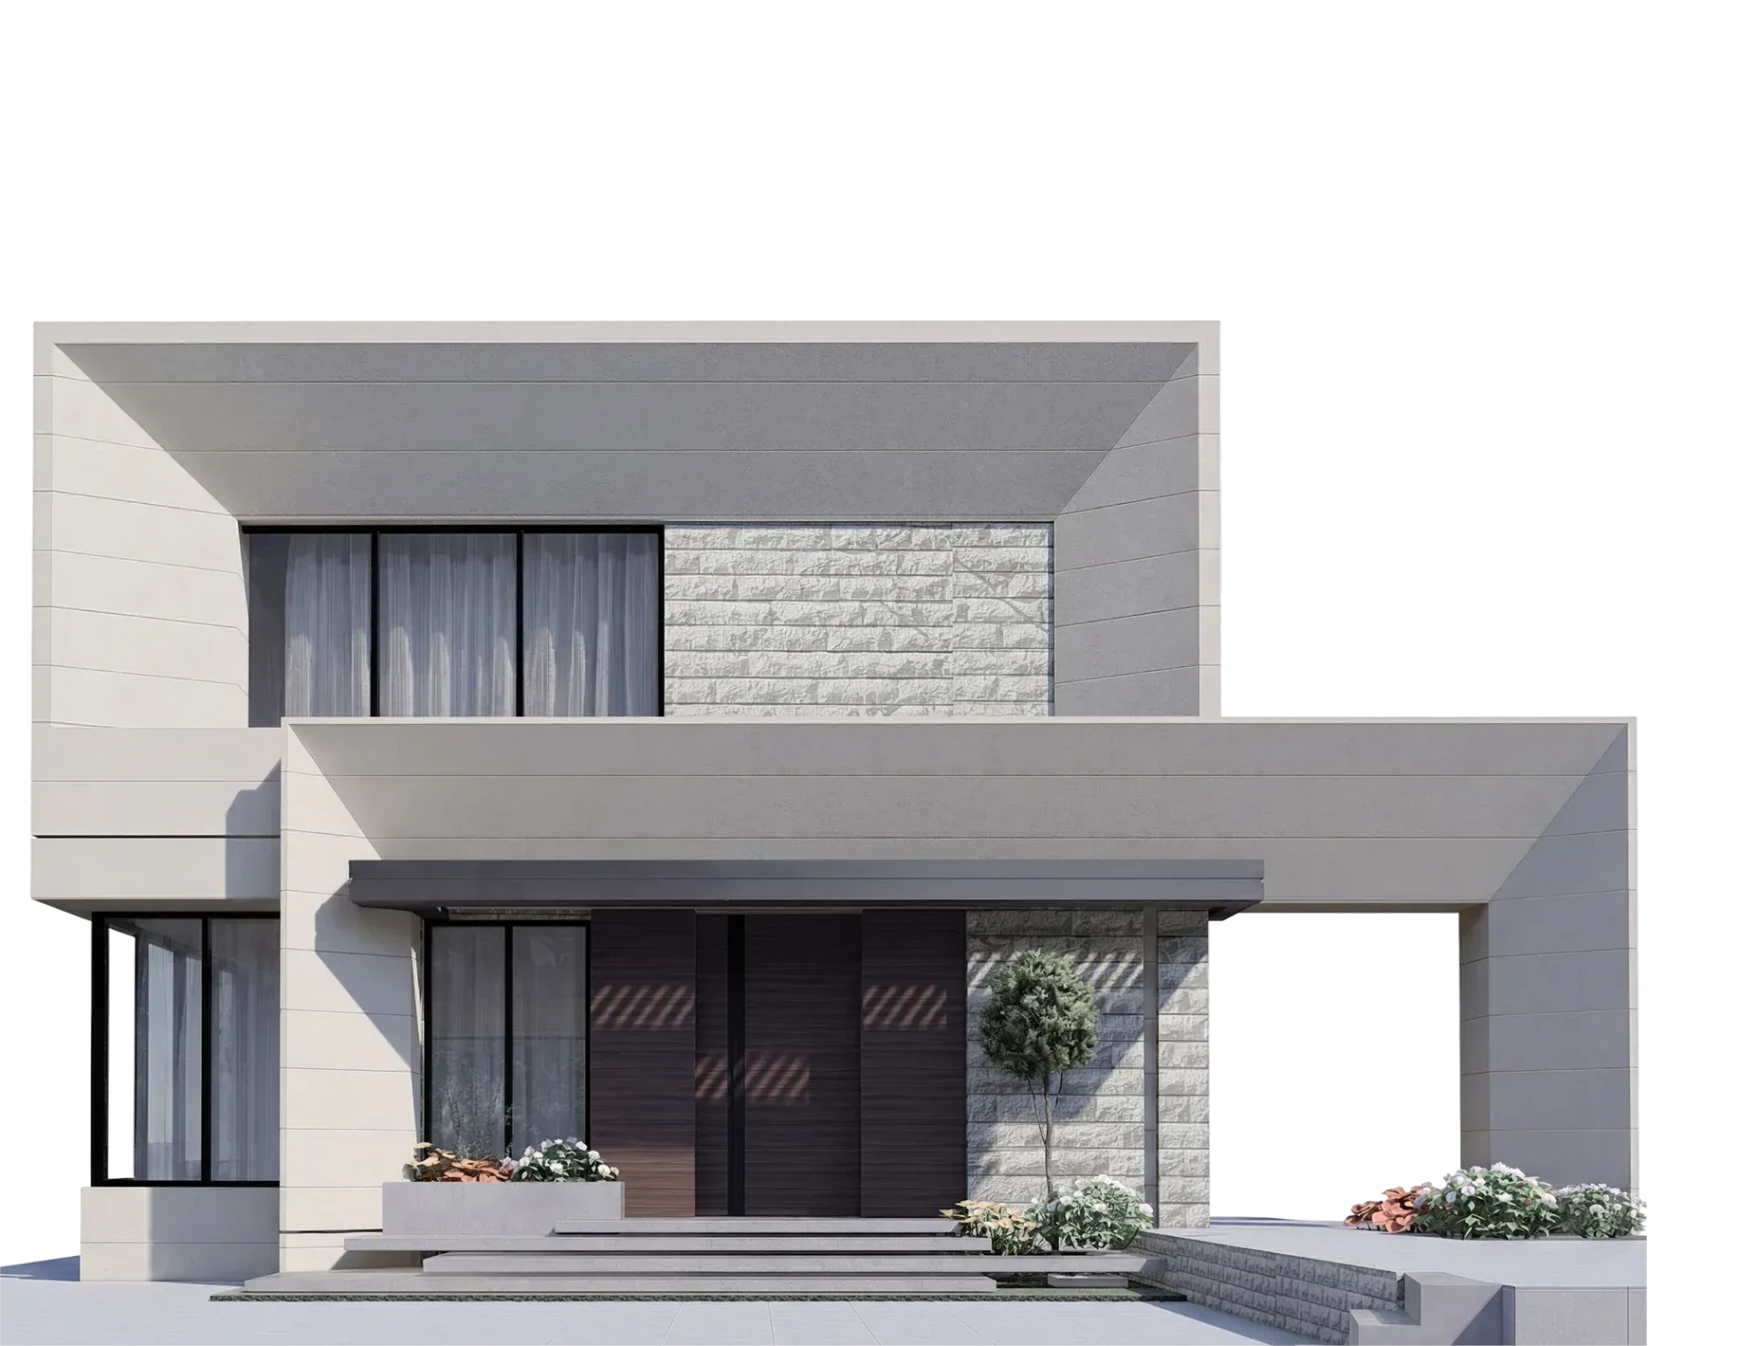
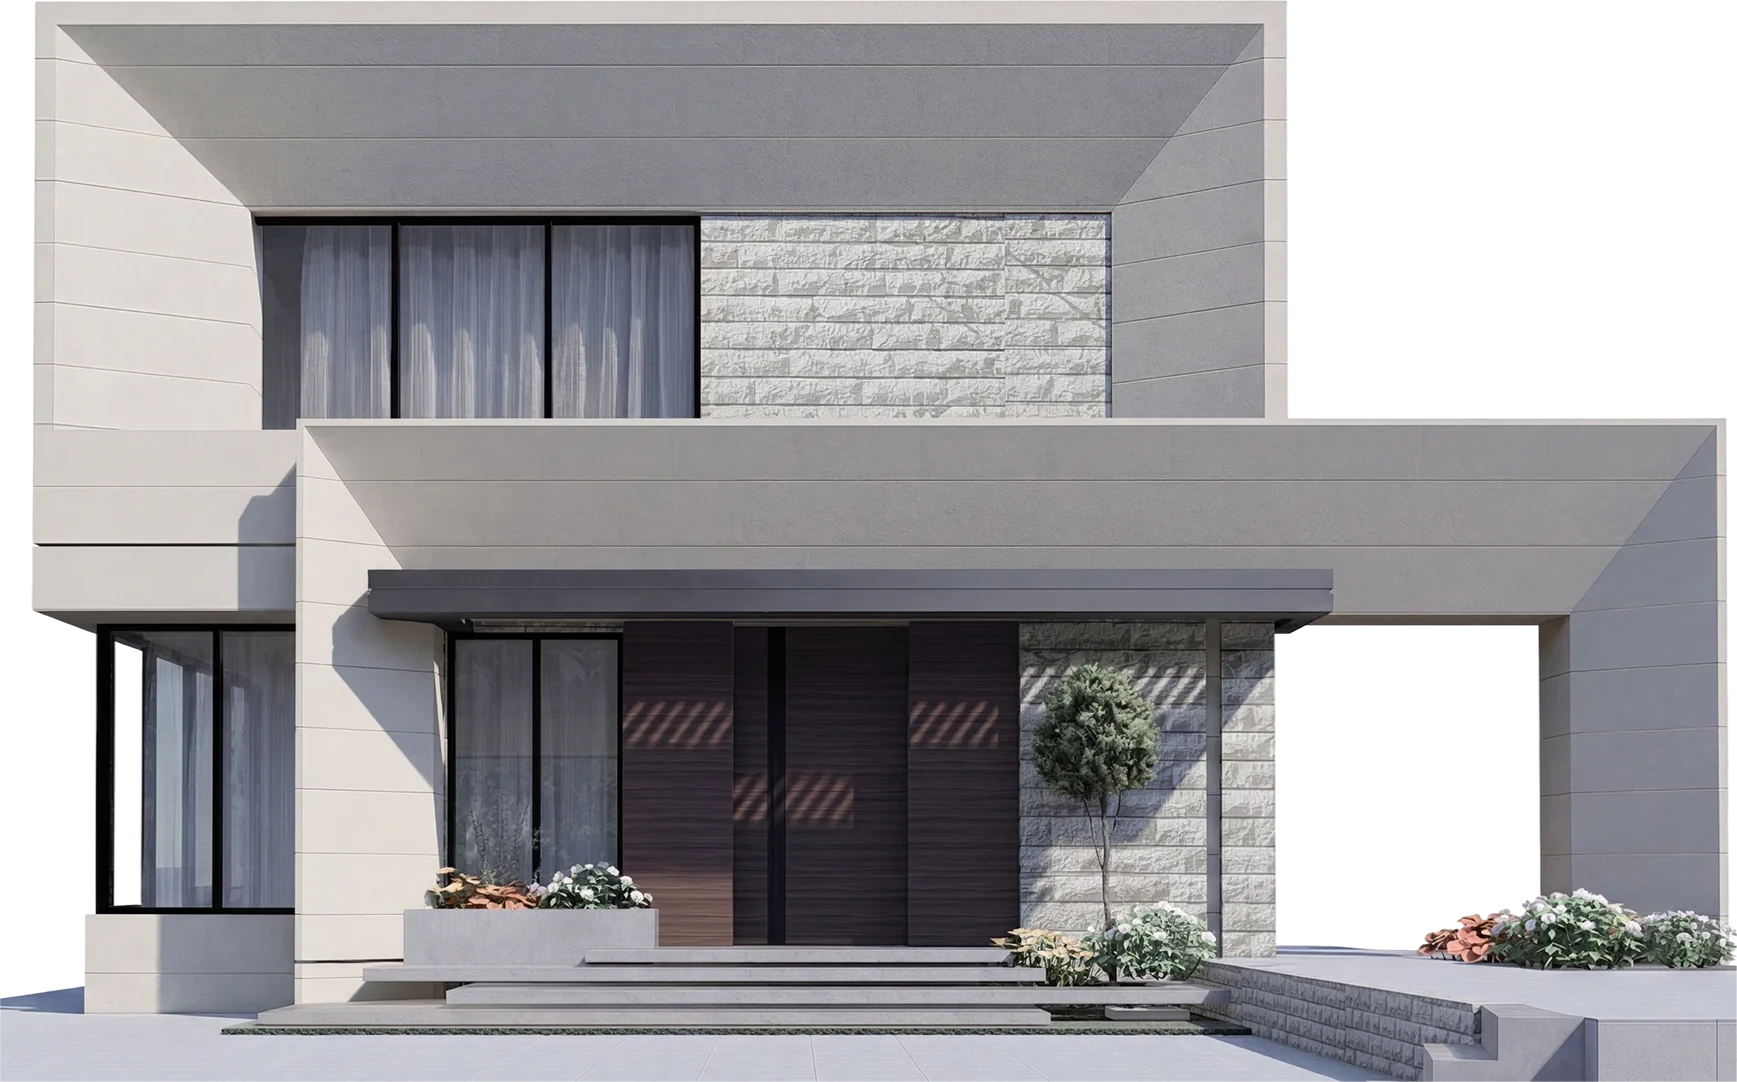
style(footer): swap villa render and grow band to fit full villa

diff --git a/resources/js/Components/Layout/Footer.tsx b/resources/js/Components/Layout/Footer.tsx
@@ -356,7 +356,7 @@ export function Footer() {
               which is exactly how the design "places" the villa & logo so only
               their lower portions show.
             */}
-            <div ref={heroRef} className="relative w-full aspect-1280/450 max-h-140 overflow-hidden">
+            <div ref={heroRef} className="relative w-full aspect-1280/720 max-h-224 overflow-hidden">
                 {/* z-30 — bottom-right cloud cluster (footer-clouds.webp), bleeds off right.
                     Slides in once, then drifts continuously across the screen. Sits in
                     front of the apartment (z-20), same as the left cluster. */}
@@ -371,13 +371,14 @@ export function Footer() {
                     inView={heroInView}
                 />
 
-                {/* z-20 — villa photo. Anchored so its bottom aligns with the hero
-                    bottom; the upper half of the photo (sky) is clipped by the hero. */}
+                {/* z-20 — villa photo. The band is sized (aspect 1280/720 + a matching
+                    max-h) so the FULL villa fits at its original size — bottom-anchored
+                    with a little sky headroom, no top clipping. */}
                 <img
                     src="/images/home/footer-apartment-padded.webp"
                     alt=""
                     aria-hidden="true"
-                    className="absolute right-[19.5%] top-[-48.9%] w-[93.5%] h-[149.6%] z-20 object-contain object-bottom select-none pointer-events-none"
+                    className="absolute right-[19.5%] top-[6.5%] w-[93.5%] h-[93.5%] z-20 object-contain object-bottom select-none pointer-events-none"
                 />
 
                 {/* z-30 — bottom-LEFT cloud cluster (same footer-clouds.webp reused),